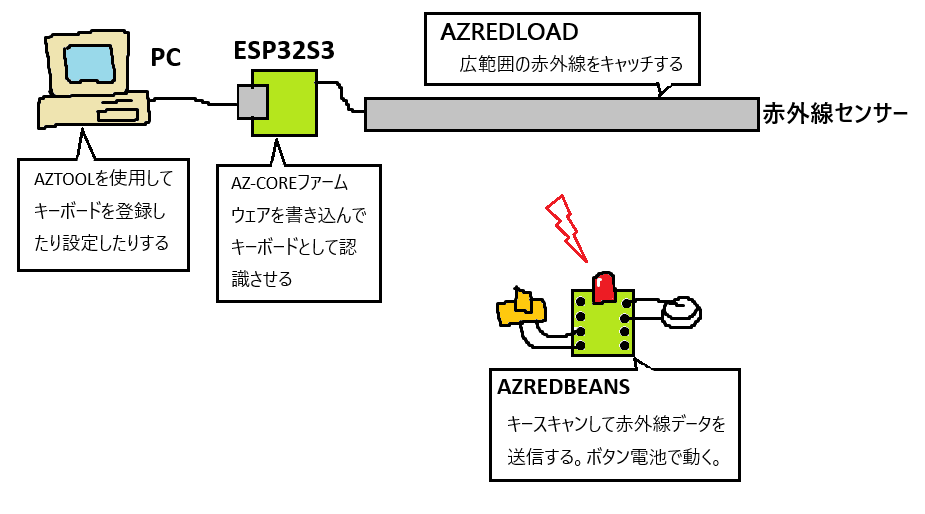
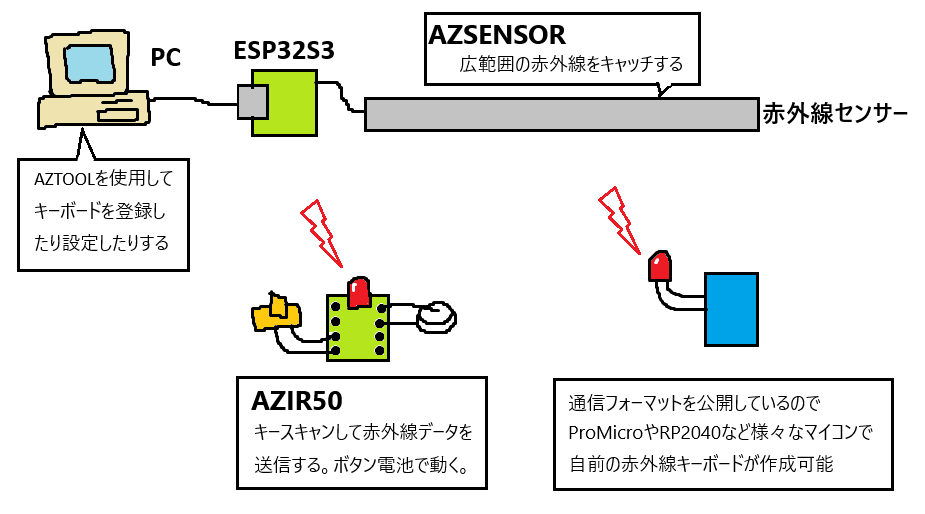
doc update

Changed region(s): [[0.2119, 0.2802, 0.9686, 0.965], [0.4541, 0.0311, 0.6357, 0.0934]]

diff --git a/docs/signal_data.md b/docs/signal_data.md
@@ -31,9 +31,11 @@ AZIRではキー番号1～255の仮想的なキーを持ち、仮想キーを押
 キーを押すコマンドの送信は成功し、キーを離すコマンドの送信を失敗した場合に押しっぱなしになってしまうので気を付けて下さい。<br>
 送信機側は押しっぱなしになっているかどうか測定する事ができないため、対策として定期的に「全てのキーを離す」コマンドの{0xB4}を送信する事をお勧めします。しかしコマンドを送信した分だけ電池を消費するため頻度は低い方が良いです。<br>
 キーボードを動かしながら入力したり、入力中にセンサーとの間に障害物が置かれたなどの特殊な場合でない限り送信失敗する事は少ないのでそこまでの頻度で送信する必要は無いと考えています。<br>
+開発中の動作確認の時にキーボードの位置を移動しながら使用した時以外で押しっぱなしになってしまった事はありませんでした。<br>
 <br>
 その他の対策として、1つのコマンドで押すと離すの両方を行う{0xB3}コマンドも用意してあります。1つのコマンドだけで離すも一緒に行うので押しっぱなしなってしまう心配はありません。ただしホールド（押しっぱなし）をすることができません。<br>
-このコマンドは1回のキー入力で送信するコマンドが少ない分省電力化へも有力です。<br>
+このコマンドは離したコマンドを送信しなくてよい分省電力化へも有力です。<br>
+手持ちでリモコンのように使用するキーボードを作成する場合に向いています。<br>
 
 <br><br>
 
@@ -47,7 +49,6 @@ AZIRにはマウスを操作するコマンドも用意されています。<br>
 <b>複数端末から同時に信号が送られた時</b><br>
 AZSENSORに複数赤外線センサーが付いていますが信号を受け取るロジックは1つのため、複数のキーボードから同時に信号を送信されると入力が行えません。<br>
 その場合2つの信号が重なったコマンドと認識するため、コマンドとして認識されないか場合によっては誤入力となってしまう可能性はあります。ただし信号の周波数デフォルトの800Hzでキーを押下した時のコマンド2バイトを送信するのに必要な時間は約0.02秒のため、通常のキーボード操作を行っている分には同時に信号が送られる事はないと考えています。<br>
-
 
 <br><br>
 
@@ -64,7 +65,7 @@ AZIR50が現在どういう設定なのかをAZSENSORで確認するためだけ
 |  内容  |  説明  |  サイズ(byte)  |
 |  --  |  --  |  --  |
 |  コマンドタイプ  |  0xB1 (固定)  |  1  |
-|  押すキーの番号  |  0x01 ～ 0xFF  |  1  |
+|  押す仮想キーの番号  |  0x01 ～ 0xFF  |  1  |
 
 <br><br>
 
@@ -74,7 +75,7 @@ AZIR50が現在どういう設定なのかをAZSENSORで確認するためだけ
 |  内容  |  説明  |  サイズ(byte)  |
 |  --  |  --  |  --  |
 |  コマンドタイプ  |  0xB2 (固定)  |  1  |
-|  離すキーの番号  |  0x01 ～ 0xFF  |  1  |
+|  離す仮想キーの番号  |  0x01 ～ 0xFF  |  1  |
 
 <br><br>
 
@@ -84,7 +85,7 @@ AZIR50が現在どういう設定なのかをAZSENSORで確認するためだけ
 |  内容  |  説明  |  サイズ(byte)  |
 |  --  |  --  |  --  |
 |  コマンドタイプ  |  0xB3 (固定)  |  1  |
-|  押して離すキーの番号  |  0x01 ～ 0xFF  |  1  |
+|  押して離す仮想キーの番号  |  0x01 ～ 0xFF  |  1  |
 
 <br><br>
 
